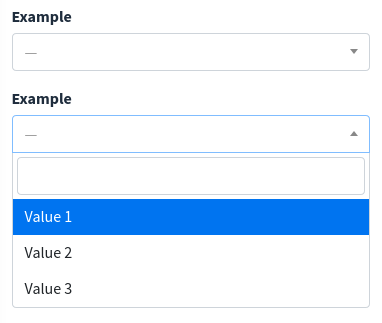
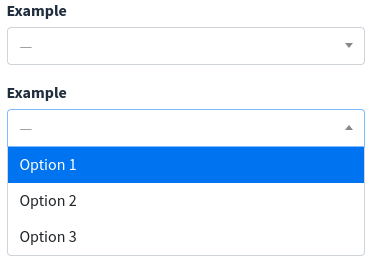
Select2 options

diff --git a/components/select2.md b/components/select2.md
@@ -7,6 +7,12 @@ permalink: /components/select2
 # Select2
 
 ```html
+<x-boilerplate::select2 name="example" label="Example" :options="[1 => 'Option 1', 2 => 'Option 2', 3 => 'Option 3']" />
+```
+
+Or
+
+```html
 <x-boilerplate::select2 name="example" label="Example">
     <option value="1">Option 1</option>
     <option value="2">Option 2</option>
@@ -28,12 +34,14 @@ Attributes that can be used with this component :
 | label | string | name | Input label, can be a translation string |
 | id | string | random id | Id of the input, if no value will set a unique random id |
 | help | string | null | Help message that will be displayed under the input field |
+| options | array | null | Associative array of options |
+| selected | string &#124; array | null | A string or an array of the selected options |
 | ajax | string | null | Ajax URL to call |
 | multiple | boolean | false | Set to true if select is multiple |
 | allow-clear | boolean | false | Set to true to allow selection clear |
 | placeholder | string | "—" | The placeholder value will be displayed until a selection is made |
-| minimum-input-length | integer | 0 | Minimum input length before showing the options |
-| minimum-results-for-search | integer | 10 | Minimum number of options to have to show the search bar |
+| minimum-input-length | integer | 0 | Minimum search term length before showing the options, efficient with large data sets |
+| minimum-results-for-search | integer | 10 | Minimum number of results required to display the search box |
 
 All of the attributes that are not in the list above will be added as attributes to the input field :
 
